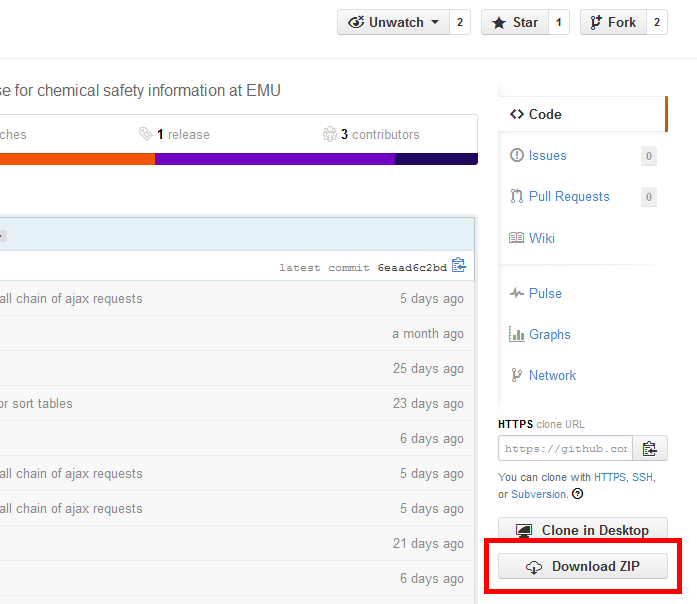
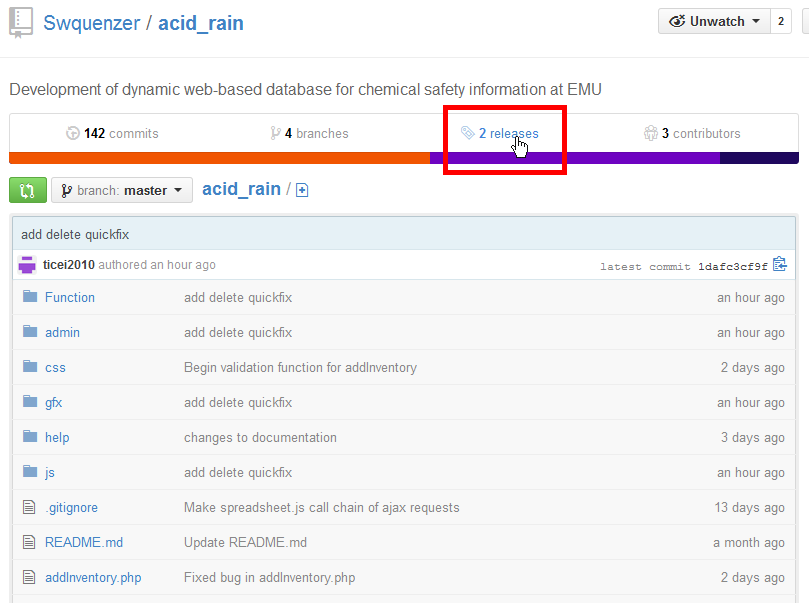
Tenative Final Grade Version

diff --git a/help/index.html b/help/index.html
@@ -158,8 +158,9 @@
 		<a class="anchor" name="3.2"></a>
 		<h2 id="Installation">3.2 - Installation</h2>
 		
-		  <p>Once you have an AMP package installed and running on your machine, you will need to download and install AcidRain onto this server. Go to our <a href="http://www.github.com/Swquenzer/acid_rain/" target="new">repository</a> and download the entire package by clicking the "Download Zip" button:</p>
-          <p><img src="img/1.png" alt="Download from Github"/></p>
+		  <p>Once you have an AMP package installed and running on your machine, you will need to download and install AcidRain onto this server. Go to our <a href="http://www.github.com/Swquenzer/acid_rain/" target="new">repository</a> and click on the "release" link to view the release list. Download the latest release:</p>
+          <p><img src="img/1.png" alt="Find Release from Homepage"/></p>
+		  <p><img src="img/1a.png" alt="Download from Github"/></p>
 		  <p>Extract all the contents onto the root-file system of your server (your AMP package). You can either place the contents directly in the root directory (so that they can simply be accessed in your browser by typing "http://localhost/") as such:</p>
           <p><img src="img/2.png" alt="Root Directory"/></p>
 		  <p>Or you can place them in a subdirectory if you wish (for example, we recommend you create a subdirectory entitled "AcidRain" and place the contents of the bundle inside this directory ("http://localhost/AcidRain/").</p>
@@ -171,7 +172,10 @@
             <p><img src="img/4.png" alt="Create acid_rain Database"/></p>
 			<p>Then, use the import function to create the table structure you need. Import this <a href="acid_rain.sql" target="new">SQL file</a> (It can be found in the "help" directory located inside your main directory for AcidRain) into your database:</p>
 			<p><img src="img/5.png" alt="Import acid_rain.sql"/></p>
-			<p>You will also need to create a user on your database that has access to the database. If it has not been added already, create a global user named "web", with host "localhost", and grant it the privileges of "select" and "execute". However, give it full database-specific privileges.
+			<p>You will also need to create a user on your database that has access to the database. If it has not been added already, create a global user named "web", with host "localhost", and grant it the privileges of "select, insert, update, delete and execute". You do not need to make a specific database for the user, so long as it can access the <b>acid_rain</b> database.
+			<p><img src="img/5a.png" alt="Import acid_rain.sql"/></p>
+			<p><img src="img/5b.png" alt="Import acid_rain.sql"/></p>
+			<p><img src="img/5c.png" alt="Import acid_rain.sql"/></p>
 		
 		<p>Setup should now be complete.</p>
 

diff --git a/css/main.css b/css/main.css
@@ -137,14 +137,14 @@ header #navMenu a:hover {
 	border-radius: 0px 10px 0px 0px;
 }
 #chemical_spreadsheet th.header { 
-	background: #7EDC7E url(../gfx/sortInactive.png) no-repeat 90% 75%;    
+	background: #7EDC7E url(../gfx/sortInactive.png) no-repeat 100% 75%;    
     cursor: pointer;
 }
 #chemical_spreadsheet th.headerSortUp { 
-	background: #61C261 url(../gfx/sortUp.png) no-repeat 90% 85%;
+	background: #61C261 url(../gfx/sortUp.png) no-repeat 100% 85%;
 }
 #chemical_spreadsheet th.headerSortDown { 
-	background: #61C261 url(../gfx/sortDown.png) no-repeat 90% 65%;
+	background: #61C261 url(../gfx/sortDown.png) no-repeat 100% 65%;
 }
 #chemical_spreadsheet td {
 	font-family: "Lucida Sans Unicode", "Lucida Grande", Sans-Serif;

diff --git a/Function/deleteRecord.php b/Function/deleteRecord.php
@@ -1,25 +1,23 @@
-<?php 
-/*include 'logger.php';
+<?php
+include 'logger.php';
+
 if(isset($_POST['location'])) {
-	if(!include "../admin/AcidRainDBLogin.php") {
-		slog('In deleteRecord.php: Error including dblogin file');
-	}
-slog("test");
-	$query = 'CALL DelInventory(?,?,?,?)'; // WHERE something (?, ?, ?) ';
-	$delete = $db->prepare($query);
-	settype( $_POST['amount'], 'int' );
-	$delete->bind_param('ssis', $_POST['location'], $_POST['name'], $_POST['amount'], $_POST['manufacturer'] );
-	
-	slog("this far" . $db->error);
-	##Not getting through to this line
-	if(!$delete->execute()) {
-		slog('Query did not execute successfully: ' . $db->error);
-	}
-	$delete->close();
-	
-	slog("Successful");
-}*/
+    if(!include "../admin/AcidRainDBLogin.php") {
+            slog('In deleteRecord.php: Error including dblogin file');
+    }
+        
+    # ----------- QUICKFIX for delete --------------#
+    $query = "DELETE FROM inventory WHERE Location = ? AND Size = ? AND ChemicalID IN (SELECT ID FROM chemical WHERE Name = ?)";
+    $delete = $db->prepare($query);
+    $_POST['amount'] = (int) $_POST['amount'];        
+    $delete->bind_param('sis', $_POST['location'], $_POST['amount'], $_POST['name']);
 
-
+    # ----------- END QUICKFIX ---------------------#
+    
+    if(!$delete->execute()) {
+            slog('Query did not execute successfully: ' . $db->error);
+    }
+    $delete->close();
+}
 
 ?>

diff --git a/Function/validate.php b/Function/validate.php
@@ -10,7 +10,7 @@
 			$errors[] = "The item quantity must be an integer number";
 		}
 		#Validate 'size': float-decimal and sign optional
-		if(!preg_match('/^-?([0-9])+([\.|,]([0-9])*)?$/', $itemCount)) {
+		if(!preg_match('/^-?([0-9])+([\.|,]([0-9])*)?$/', $size)) {
 			$errors[] = "The size quantity must be an decimal number";
 		}
 		#Validate chemicalID (At the moment, the add function only works if the chemical already exists in DB)

diff --git a/admin/AcidRainDBLogin.php b/admin/AcidRainDBLogin.php
@@ -1,13 +1,16 @@
 <?php 
+
 // AcidRainDBLogin.php
 
 $db = new mysqli('localhost', 'web', 'P@ssw0rd', 'acid_rain');
 	if (mysqli_connect_error()){
 		exit("Problem connecting to Database.". mysqli_connect_error());
     }
+	
     /*
 $devDB = new mysqli('localhost', 'devAdmin', 'P@ssw0rd', 'acid_rain');
 	if (mysqli_connect_error()){
 		exit("Problem connecting to Database.". mysqli_connect_error());
     }*/
+	
 ?>
